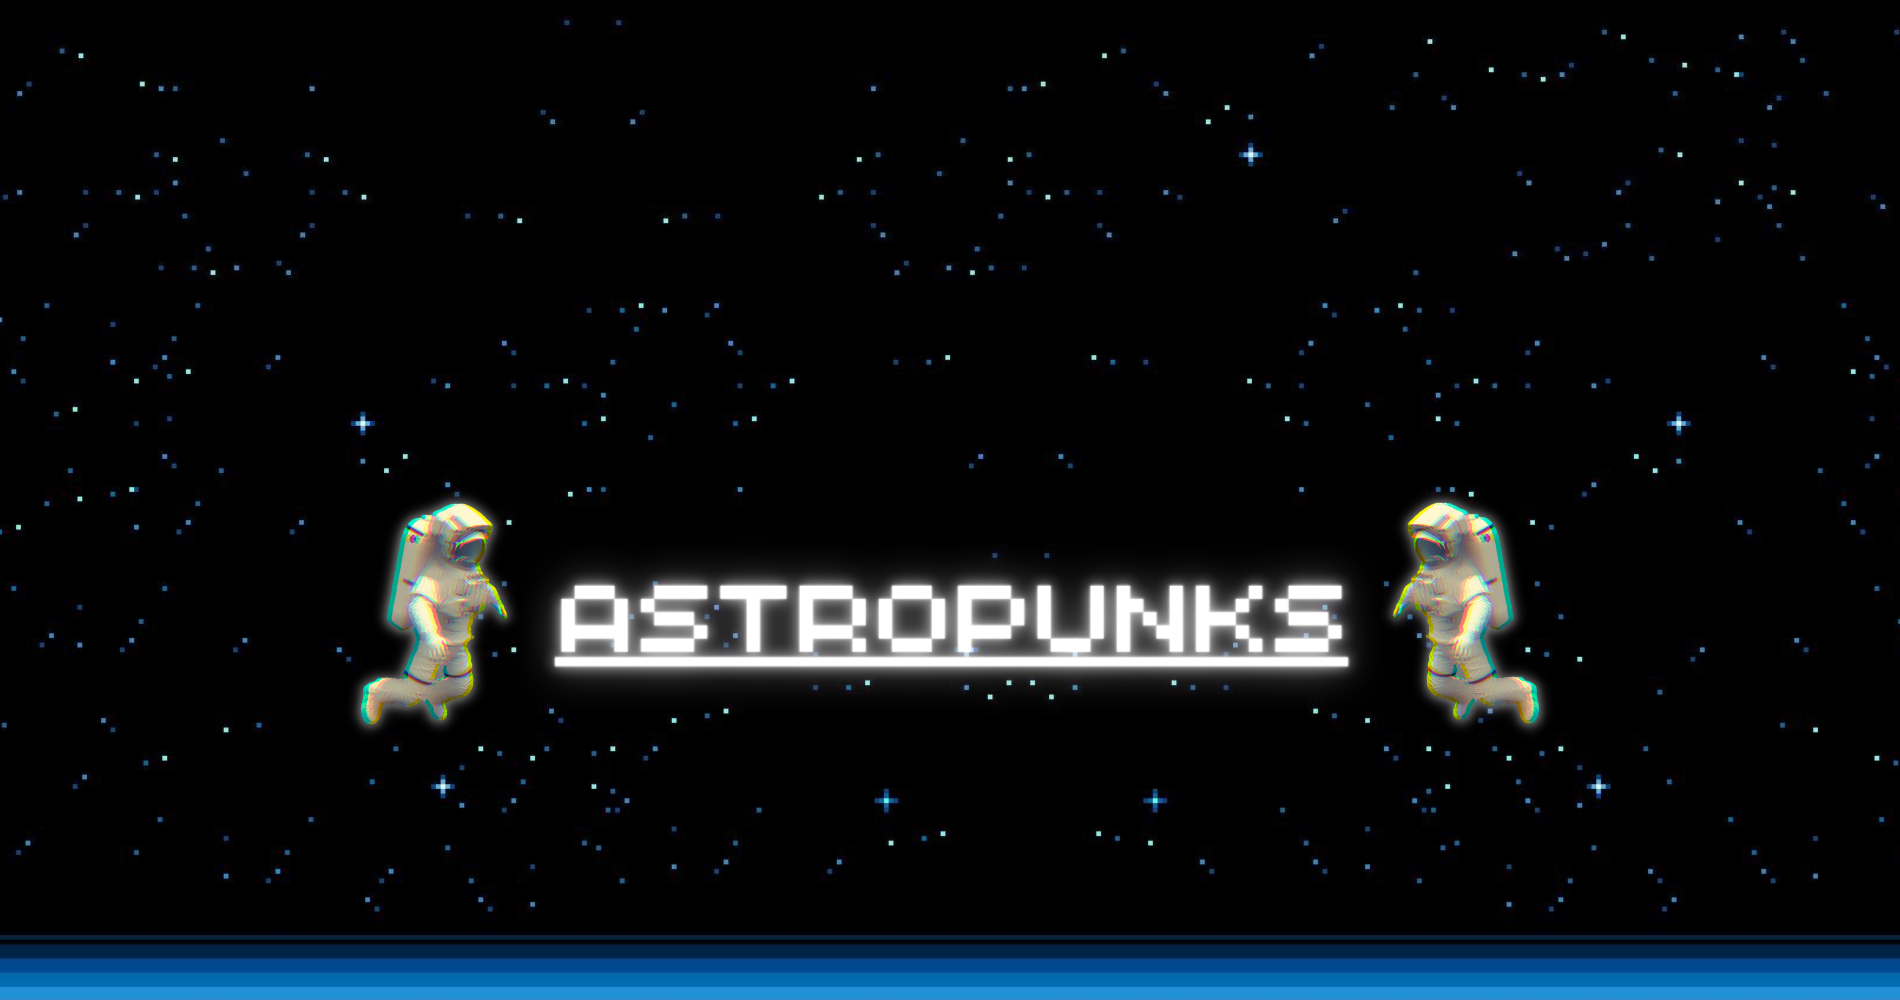
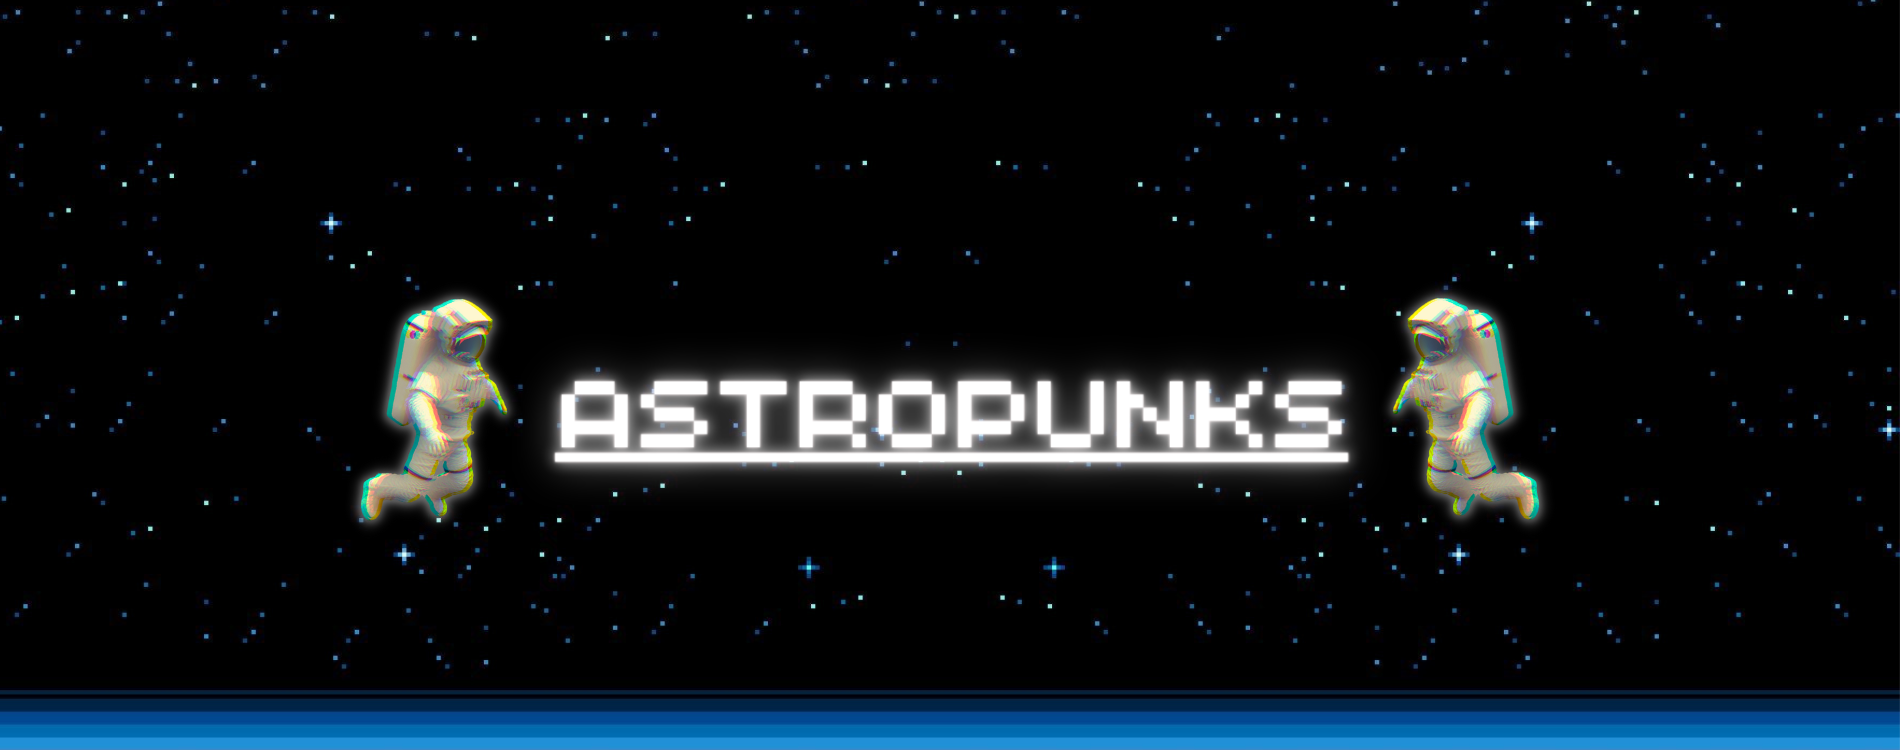
Update

diff --git a/css/styles.css b/css/styles.css
@@ -4034,9 +4034,9 @@ textarea.form-control-lg {
   flex-wrap: wrap;
   align-items: center;
   justify-content: space-between;
-  padding-top: 26.5px;
-  padding-bottom: 26.5px;
-  min-height: 80px;
+  padding-top: 6.5px;
+  padding-bottom: 6.5px;
+  min-height: 40px;
 }
 .navbar > .container,
 .navbar > .container-fluid,
@@ -4052,8 +4052,8 @@ textarea.form-control-lg {
 }
 .navbar-brand {
   padding: 0 15px;
-  height: 80px;
-  line-height: 80px;
+  height: 40px;
+  line-height: 40px;
   margin-right: 1rem;
   font-size: 1.25rem;
   text-decoration: none;
@@ -4186,6 +4186,7 @@ textarea.form-control-lg {
   }
   .navbar-expand-md .navbar-nav .dropdown-menu {
     position: absolute;
+    padding-right: 5px;
   }
   .navbar-expand-md .navbar-nav .nav-link {
     padding-right: 0.5rem;
@@ -4239,6 +4240,7 @@ textarea.form-control-lg {
   }
   .navbar-expand-lg .navbar-nav .dropdown-menu {
     position: absolute;
+    padding-right: 5px;
   }
   .navbar-expand-lg .navbar-nav .nav-link {
     padding-right: 0.5rem;
@@ -4292,6 +4294,7 @@ textarea.form-control-lg {
   }
   .navbar-expand-xl .navbar-nav .dropdown-menu {
     position: absolute;
+    padding-right: 5px;
   }
   .navbar-expand-xl .navbar-nav .nav-link {
     padding-right: 0.5rem;
@@ -4345,6 +4348,7 @@ textarea.form-control-lg {
   }
   .navbar-expand-xxl .navbar-nav .dropdown-menu {
     position: absolute;
+    padding-right: 5px;
   }
   .navbar-expand-xxl .navbar-nav .nav-link {
     padding-right: 0.5rem;
@@ -4397,6 +4401,7 @@ textarea.form-control-lg {
 }
 .navbar-expand .navbar-nav .dropdown-menu {
   position: absolute;
+  padding-right: 5px;
 }
 .navbar-expand .navbar-nav .nav-link {
   padding-right: 0.5rem;
@@ -11408,8 +11413,7 @@ p {
   }
 }
 header.masthead {
-  padding-top: 10.5rem;
-  padding-bottom: 6rem;
+  padding-top: 0;
   text-align: center;
   color: #fff;
   background-image: url("../assets/img/header-bg.png");
